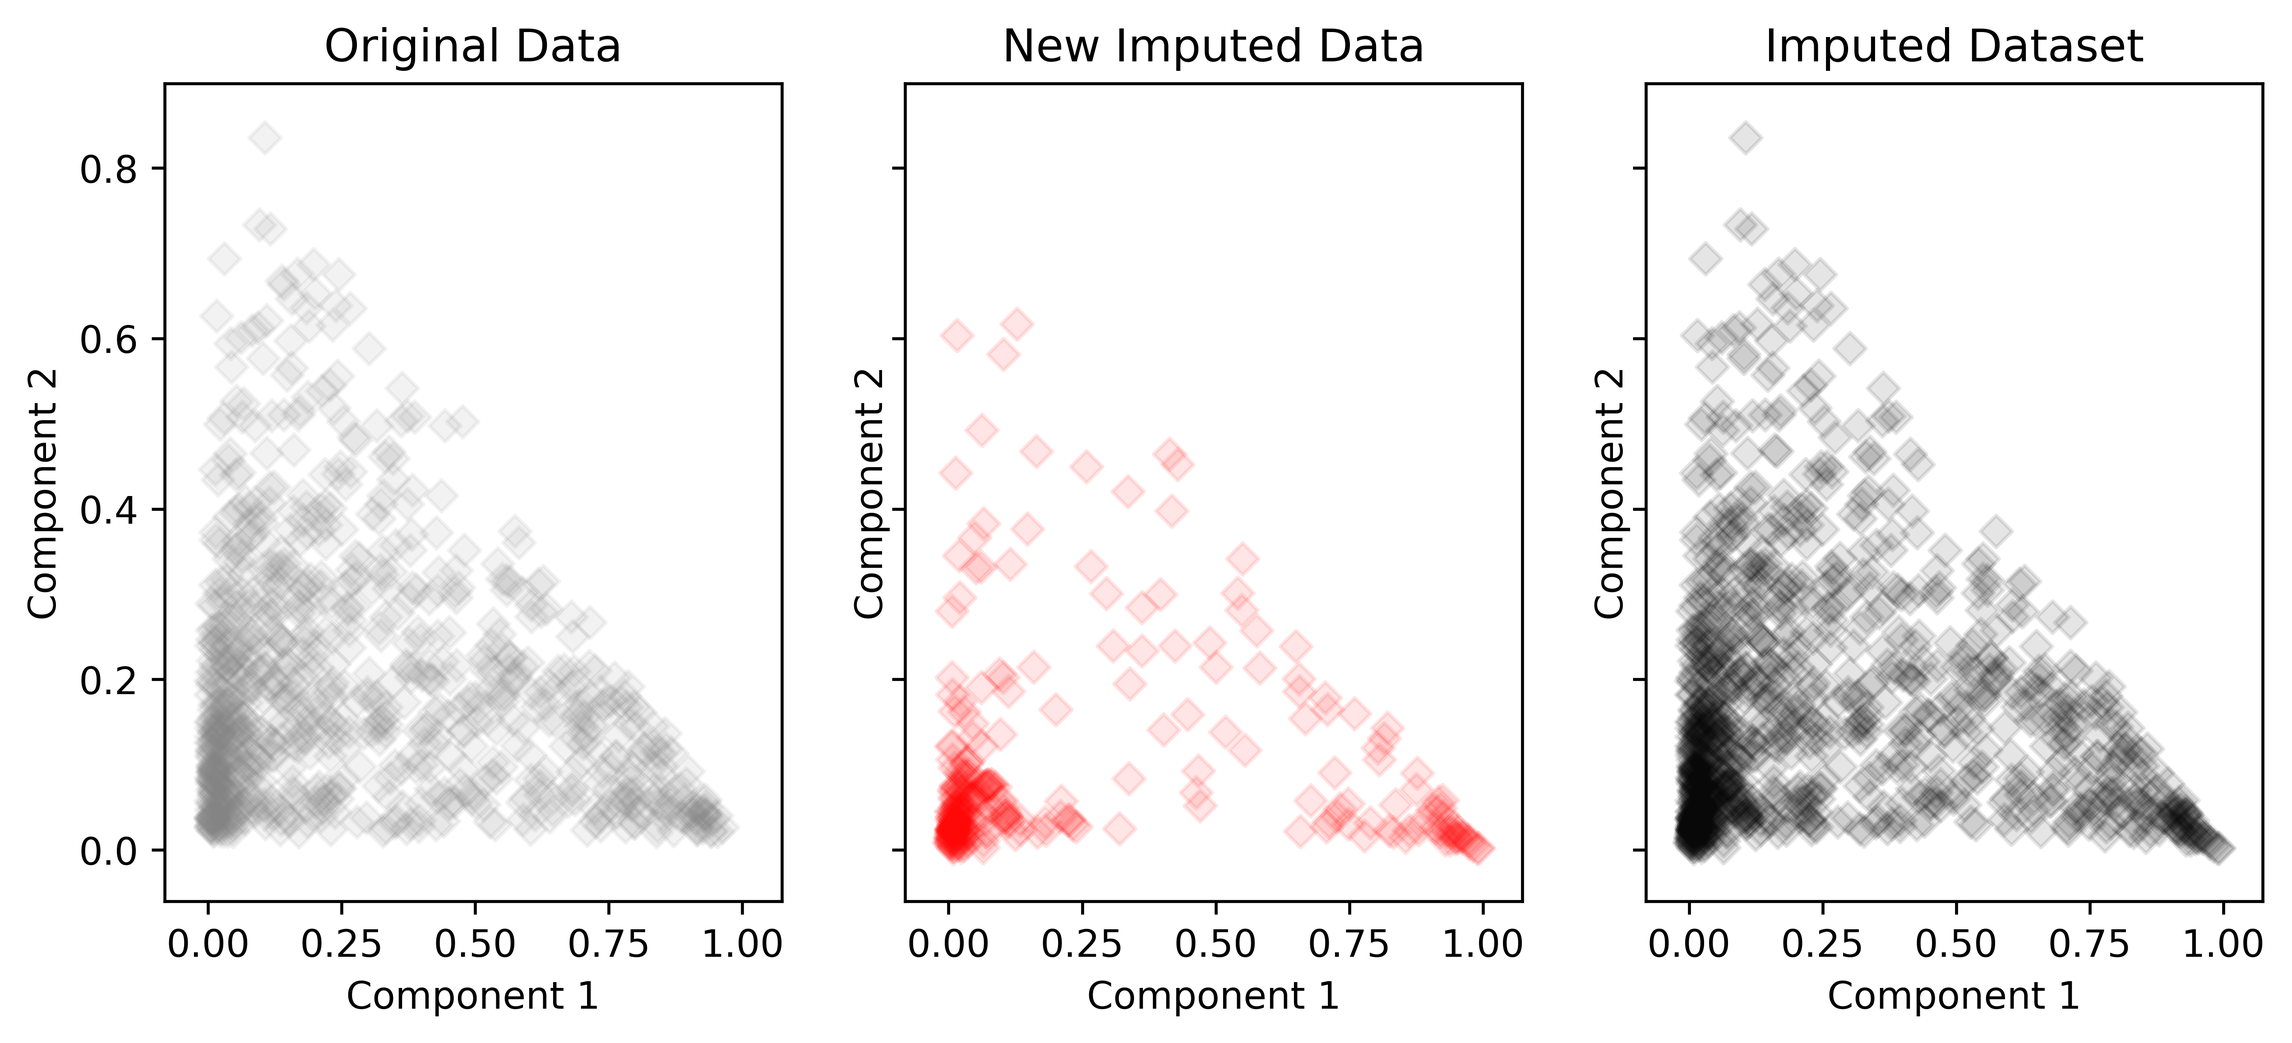
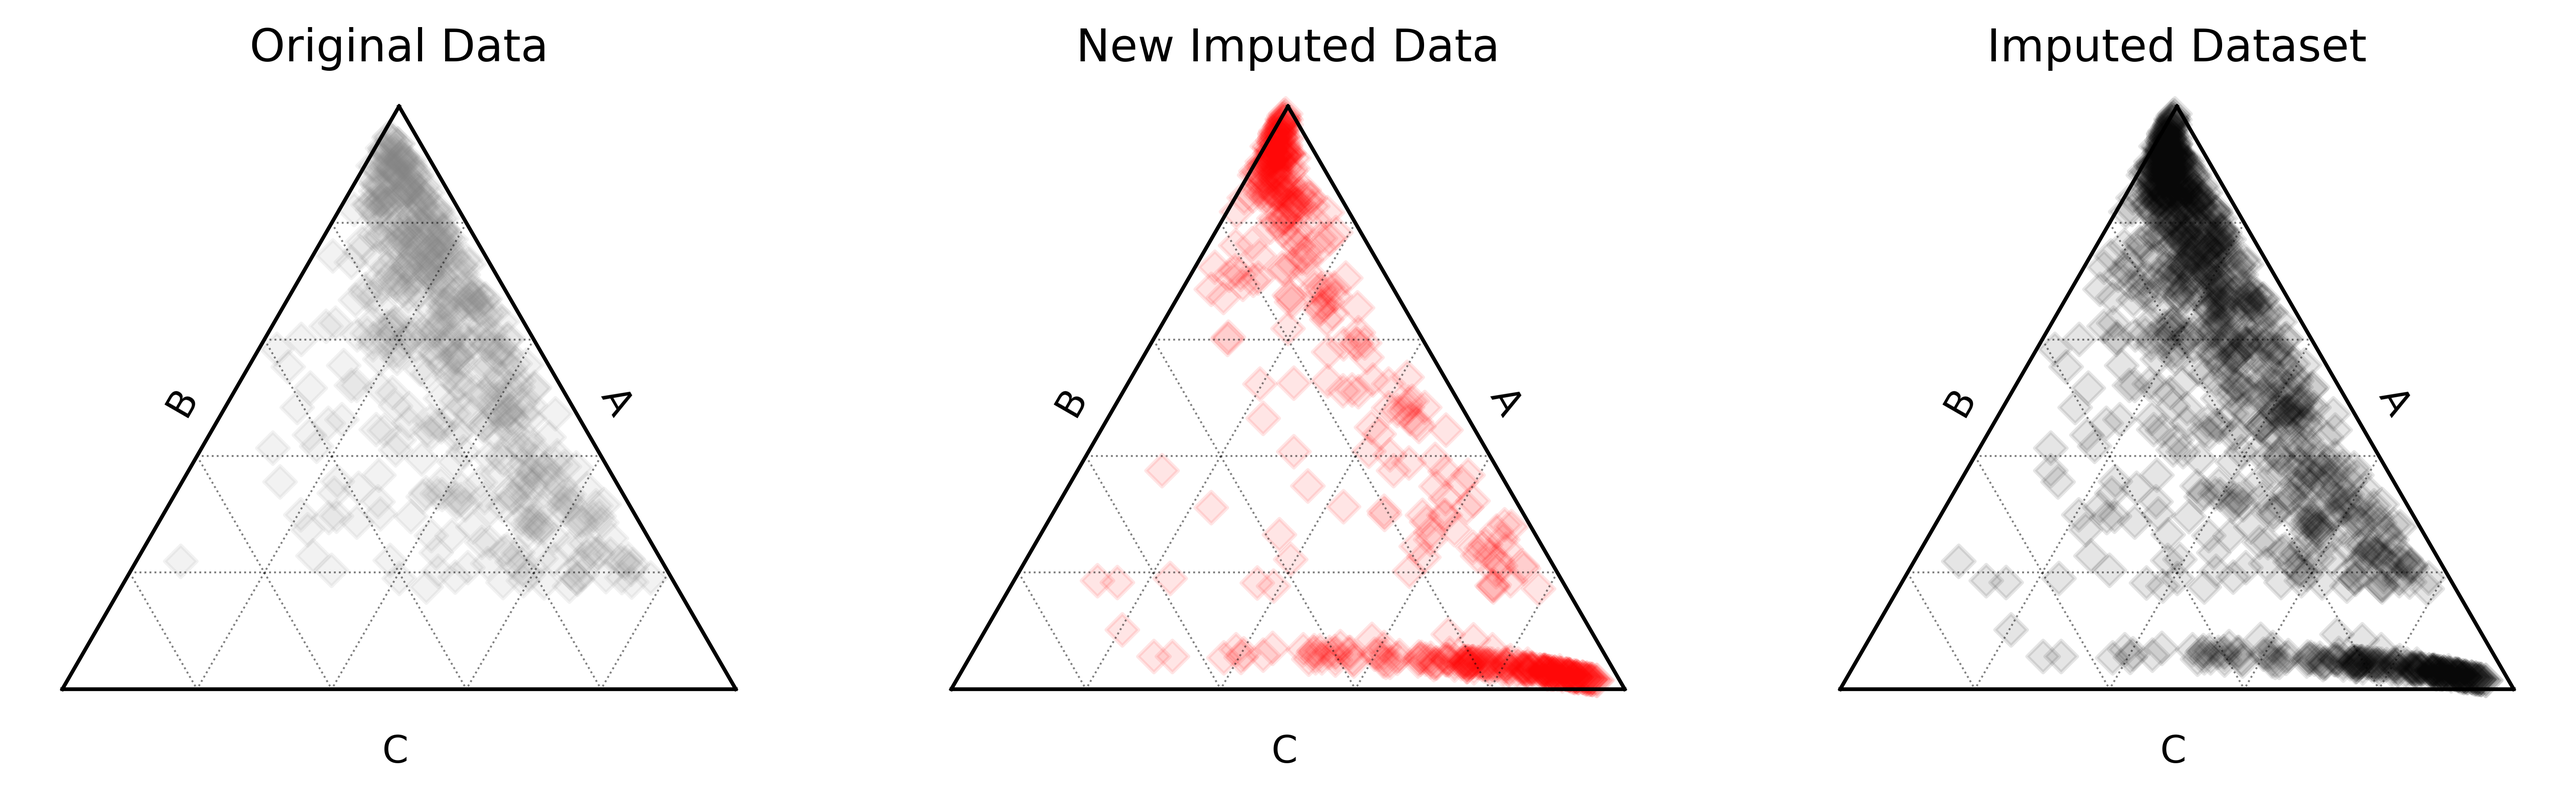
Update Synthetic, EMCOMP example

diff --git a/pyrolite/util/synthetic.py b/pyrolite/util/synthetic.py
@@ -32,7 +32,9 @@ def random_cov_matrix(dim, validate=False):
     return cov
 
 
-def random_composition(size=1000, D=4, mean=None, cov=None, propnan=0.1, missing=None):
+def random_composition(
+    size=1000, D=4, mean=None, cov=None, propnan=0.1, missingcols=None, missing=None
+):
     """
     Generate a simulated random unimodal compositional dataset,
     optionally with missing data.
@@ -49,7 +51,13 @@ def random_composition(size=1000, D=4, mean=None, cov=None, propnan=0.1, missing
         Optional specification of covariance matrix (in log space).
     propnan : :class:`float`, [0, 1)
         Proportion of missing values in the output dataset.
+    missingcols : :class:`int` | :class:`tuple`
+        Specification of columns to be missing. If an integer is specified,
+        interpreted to be the number of columns containin missing data (at a proportion
+        defined by `propnan`). If a tuple or list, the specific columns to contain
+        missing data.
     missing : :class:`str`, :code:`None`
+        Missingness pattern.
         If not :code:`None`, a string in :code:`{"MCAR", "MAR", "MNAR"}`.
 
             * If :code:`missing = "MCAR"``, data will be missing at random.
@@ -107,27 +115,46 @@ def random_composition(size=1000, D=4, mean=None, cov=None, propnan=0.1, missing
             np.random.multivariate_normal(mean.reshape(D - 1), cov, size=size)
         ).reshape(size, D)
 
+    if missingcols is None:
+        nancols = (
+            np.random.choice(
+                range(data.shape[1] - 1), size=int(data.shape[1] - 1), replace=False
+            )
+            + 1
+        )
+    elif isinstance(missingcols, int):  # number of columns specified
+        nancols = (
+            np.random.choice(range(data.shape[1] - 1), size=missingcols, replace=False)
+            + 1
+        )
+    else:  # tuples, list etc
+        nancols = missingcols
+
     if missing is not None:
         if missing == "MCAR":
-            nnan = int(propnan * size)
-            for _ in range(nnan):
-                for i in range(data.shape[1] - 1):
-                    data[np.random.randint(size), i + 1] = np.nan
+            for i in nancols:
+                data[np.random.randint(size, size=int(propnan * size)), i] = np.nan
         elif missing == "MAR":
-            thresholds = np.percentile(data, propnan * 100, axis=0)
+            thresholds = np.percentile(data[:, nancols], propnan * 100, axis=0)[
+                np.newaxis, :
+            ]
             # should update this such that data are proportional to other variables
             # potentially just by rearranging the where statement
-            data[:, 1:] = np.where(
-                data[:, 1:] < np.tile(thresholds[1:], size).reshape(size, D - 1),
+            data[:, nancols] = np.where(
+                data[:, nancols]
+                < np.tile(thresholds, size).reshape(size, len(nancols)),
                 np.nan,
-                data[:, 1:],
+                data[:, nancols],
             )
         elif missing == "MNAR":
-            thresholds = np.percentile(data, propnan * 100, axis=0)
-            data[:, 1:] = np.where(
-                data[:, 1:] < np.tile(thresholds[1:], size).reshape(size, D - 1),
+            thresholds = np.percentile(data[:, nancols], propnan * 100, axis=0)[
+                np.newaxis, :
+            ]
+            data[:, nancols] = np.where(
+                data[:, nancols]
+                < np.tile(thresholds, size).reshape(size, len(nancols)),
                 np.nan,
-                data[:, 1:],
+                data[:, nancols],
             )
         else:
             msg = "Provide a value for missing in {}".format(

diff --git a/docs/examples/comp/EMCOMP.py b/docs/examples/comp/EMCOMP.py
@@ -1,32 +1,35 @@
 import numpy as np
+import pandas as pd
 import matplotlib.pyplot as plt
 from pyrolite.comp.impute import EMCOMP
 from pyrolite.util.synthetic import random_composition
 
 np.random.seed(82)
 
-sample_data = random_composition(1000, 5, propnan=0.1, missing="MNAR")
-
+sample_data = random_composition(1000, 4, propnan=0.2, missing="MNAR", missingcols=3)
 imputed_data, p0, niter = EMCOMP(
-    sample_data, threshold=np.nanpercentile(sample_data, 95, axis=0),
-    tol=0.01
+    sample_data, threshold=np.nanpercentile(sample_data, 90, axis=0), tol=0.01
 )
+imputed_data = pd.DataFrame(imputed_data, columns=["A", "B", "C", "D"])
 # %% Plot Data --
-fig, ax = plt.subplots(1, 3, sharex=True, sharey=True, figsize=(10, 4))
+fig, ax = plt.subplots(1, 3, sharex=True, sharey=True, figsize=(12, 5))
 
-ax[0].set_title('Original Data')
-ax[1].set_title('New Imputed Data')
-ax[2].set_title('Imputed Dataset')
-fltr = ((np.isfinite(imputed_data).sum(axis=1) - np.isfinite(sample_data).sum(axis=1)) > 0)
-
-ax[0].scatter(*sample_data[:, 2:4].T, marker="D", color="0.5", alpha=0.1)
-ax[1].scatter(*imputed_data[fltr, 2:4].T, marker="D", color="r", alpha=0.1)
-ax[2].scatter(*imputed_data[:, 2:4].T, marker="D", color="k", alpha=0.1)
-for a in ax:
-    a.set_xlabel('Component 1')
-    a.set_ylabel('Component 2')
+ax[0].set_title("Original Data")
+ax[1].set_title("New Imputed Data")
+ax[2].set_title("Imputed Dataset")
+fltr = (np.isfinite(sample_data).sum(axis=1)) == sample_data.shape[1]
+imputed_data.loc[fltr, ["A", "B", "C"]].pyroplot.ternary(
+    marker="D", color="0.5", alpha=0.1, ax=ax[0], no_ticks=True
+)
+imputed_data.loc[~fltr, ["A", "B", "C"]].pyroplot.ternary(
+    marker="D", color="r", alpha=0.1, ax=ax[1], no_ticks=True
+)
+imputed_data.loc[:, ["A", "B", "C"]].pyroplot.ternary(
+    marker="D", color="k", alpha=0.1, ax=ax[2], no_ticks=True
+)
 # %% Save Figure --
 from pyrolite.util.plot import save_figure
+
 save_figure(fig, save_at="../../source/_static", name="EMCOMP_comparison")
 # %% --
 import scipy.stats
@@ -36,8 +39,8 @@ dif = np.random.randn(15)
 SD = np.sort(dif / sigma)
 ϕ = scipy.stats.norm.pdf(SD, loc=0, scale=1)
 Φ = scipy.stats.norm.cdf(SD, loc=0, scale=1)
-plt.plot(SD, ϕ, color='0.5')
-plt.plot(SD, Φ, color='0.5')
-plt.plot(SD, ϕ/Φ, color='0.5') # pdf / cdf
-plt.scatter(SD, sigma*ϕ/Φ, color='k',label='D')
+plt.plot(SD, ϕ, color="0.5")
+plt.plot(SD, Φ, color="0.5")
+plt.plot(SD, ϕ / Φ, color="0.5")  # pdf / cdf
+plt.scatter(SD, sigma * ϕ / Φ, color="k", label="D")
 plt.legend(frameon=False, facecolor=None)

diff --git a/test/util/test_util_synthetic.py b/test/util/test_util_synthetic.py
@@ -66,7 +66,14 @@ class TestRandomComposition(unittest.TestCase):
 
     def test_missing_mechanism(self):
         for missing in [None, "MCAR", "MAR", "MNAR"]:
-            random_composition(size=self.size, D=self.D, missing=missing)
+            rc = random_composition(size=self.size, D=self.D, missing=missing)
+
+    def test_missing_columns(self):
+        for missingcols in [1, 2, (0, 1), [1, 2]]:
+            with self.subTest(missingcols=missingcols):
+                rc = random_composition(
+                    size=self.size, D=self.D, missingcols=missingcols
+                )
 
     def test_missing_mechanism_invalid(self):
         for missing in ["all", "completely"]:

diff --git a/pyrolite/comp/impute.py b/pyrolite/comp/impute.py
@@ -92,7 +92,8 @@ def _reg_sweep(M: np.ndarray, C: np.ndarray, varobs: np.ndarray, error_threshold
     regression coefficients :math:`\beta_{0} \cdots \beta_(d)` and residial covariance
     for the regression of missing variables against observed variables for a given
     missing data pattern. Translated from matlab to python from Palarea-Albaladejo
-    and Martín-Fernández (2008) [#ref_1]_.
+    and Martín-Fernández (2008) [#ref_1]_. Note that this algorithm requires at least
+    two columns free of missing values.
 
     Parameters
     -----------
